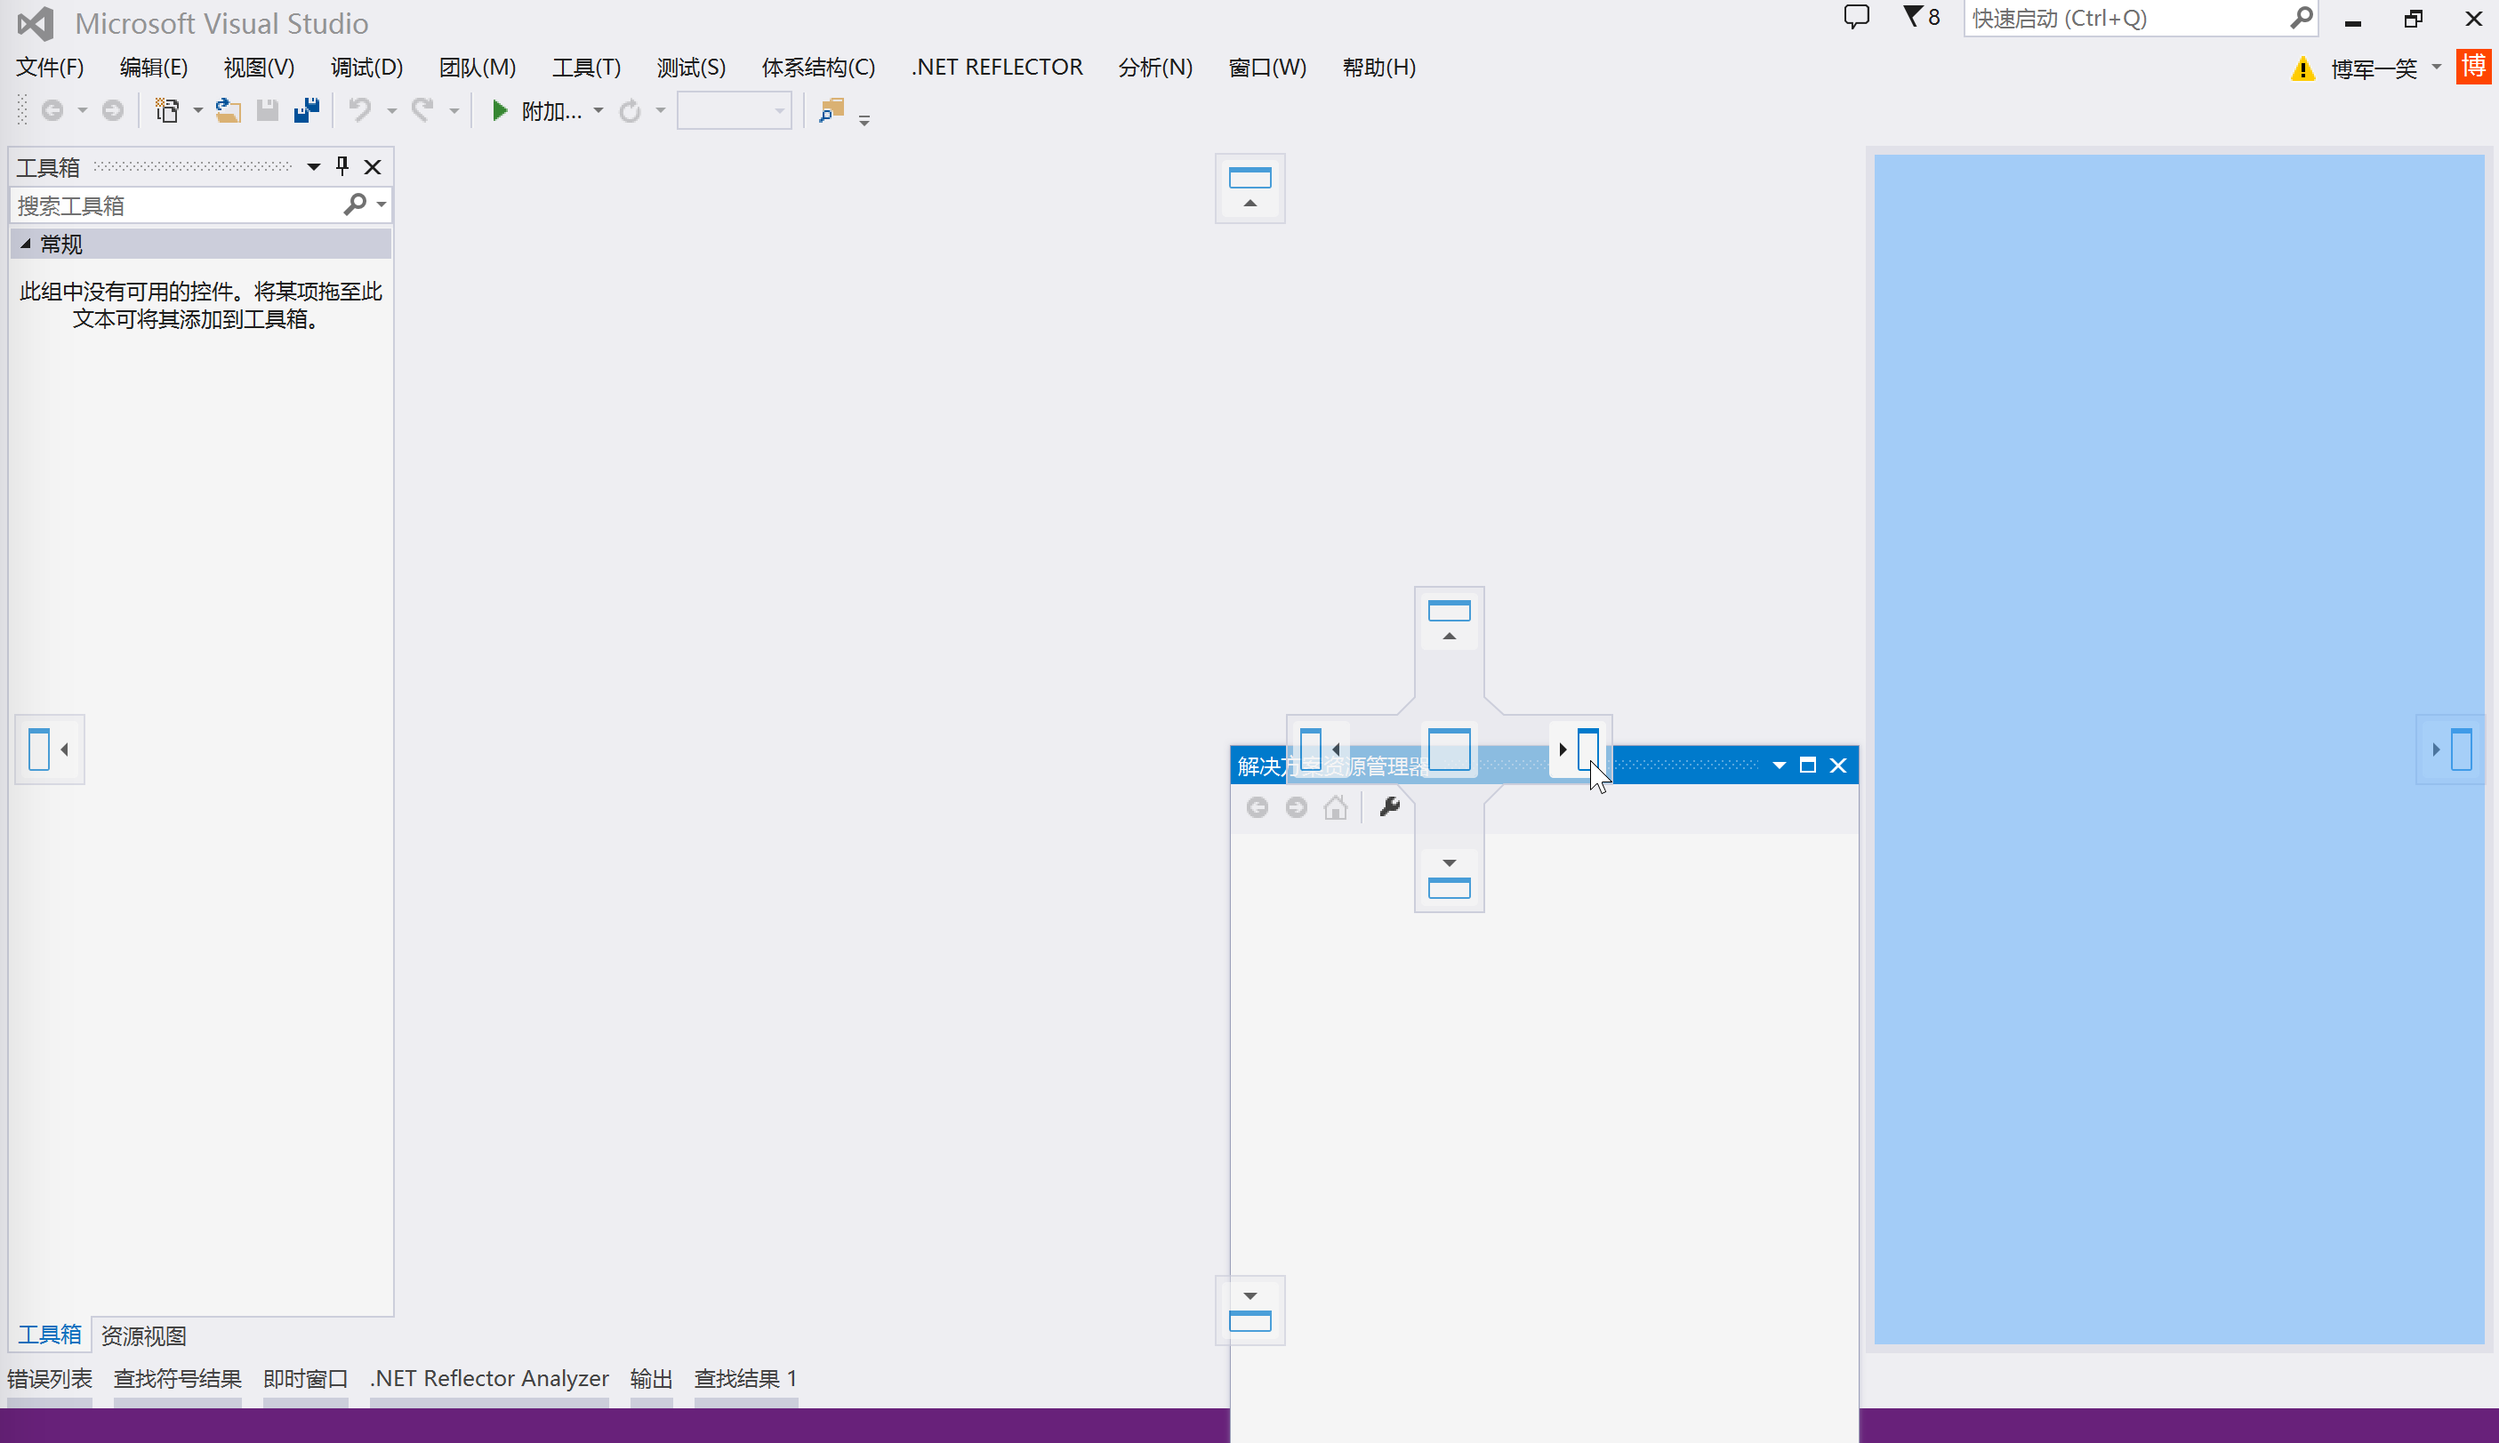
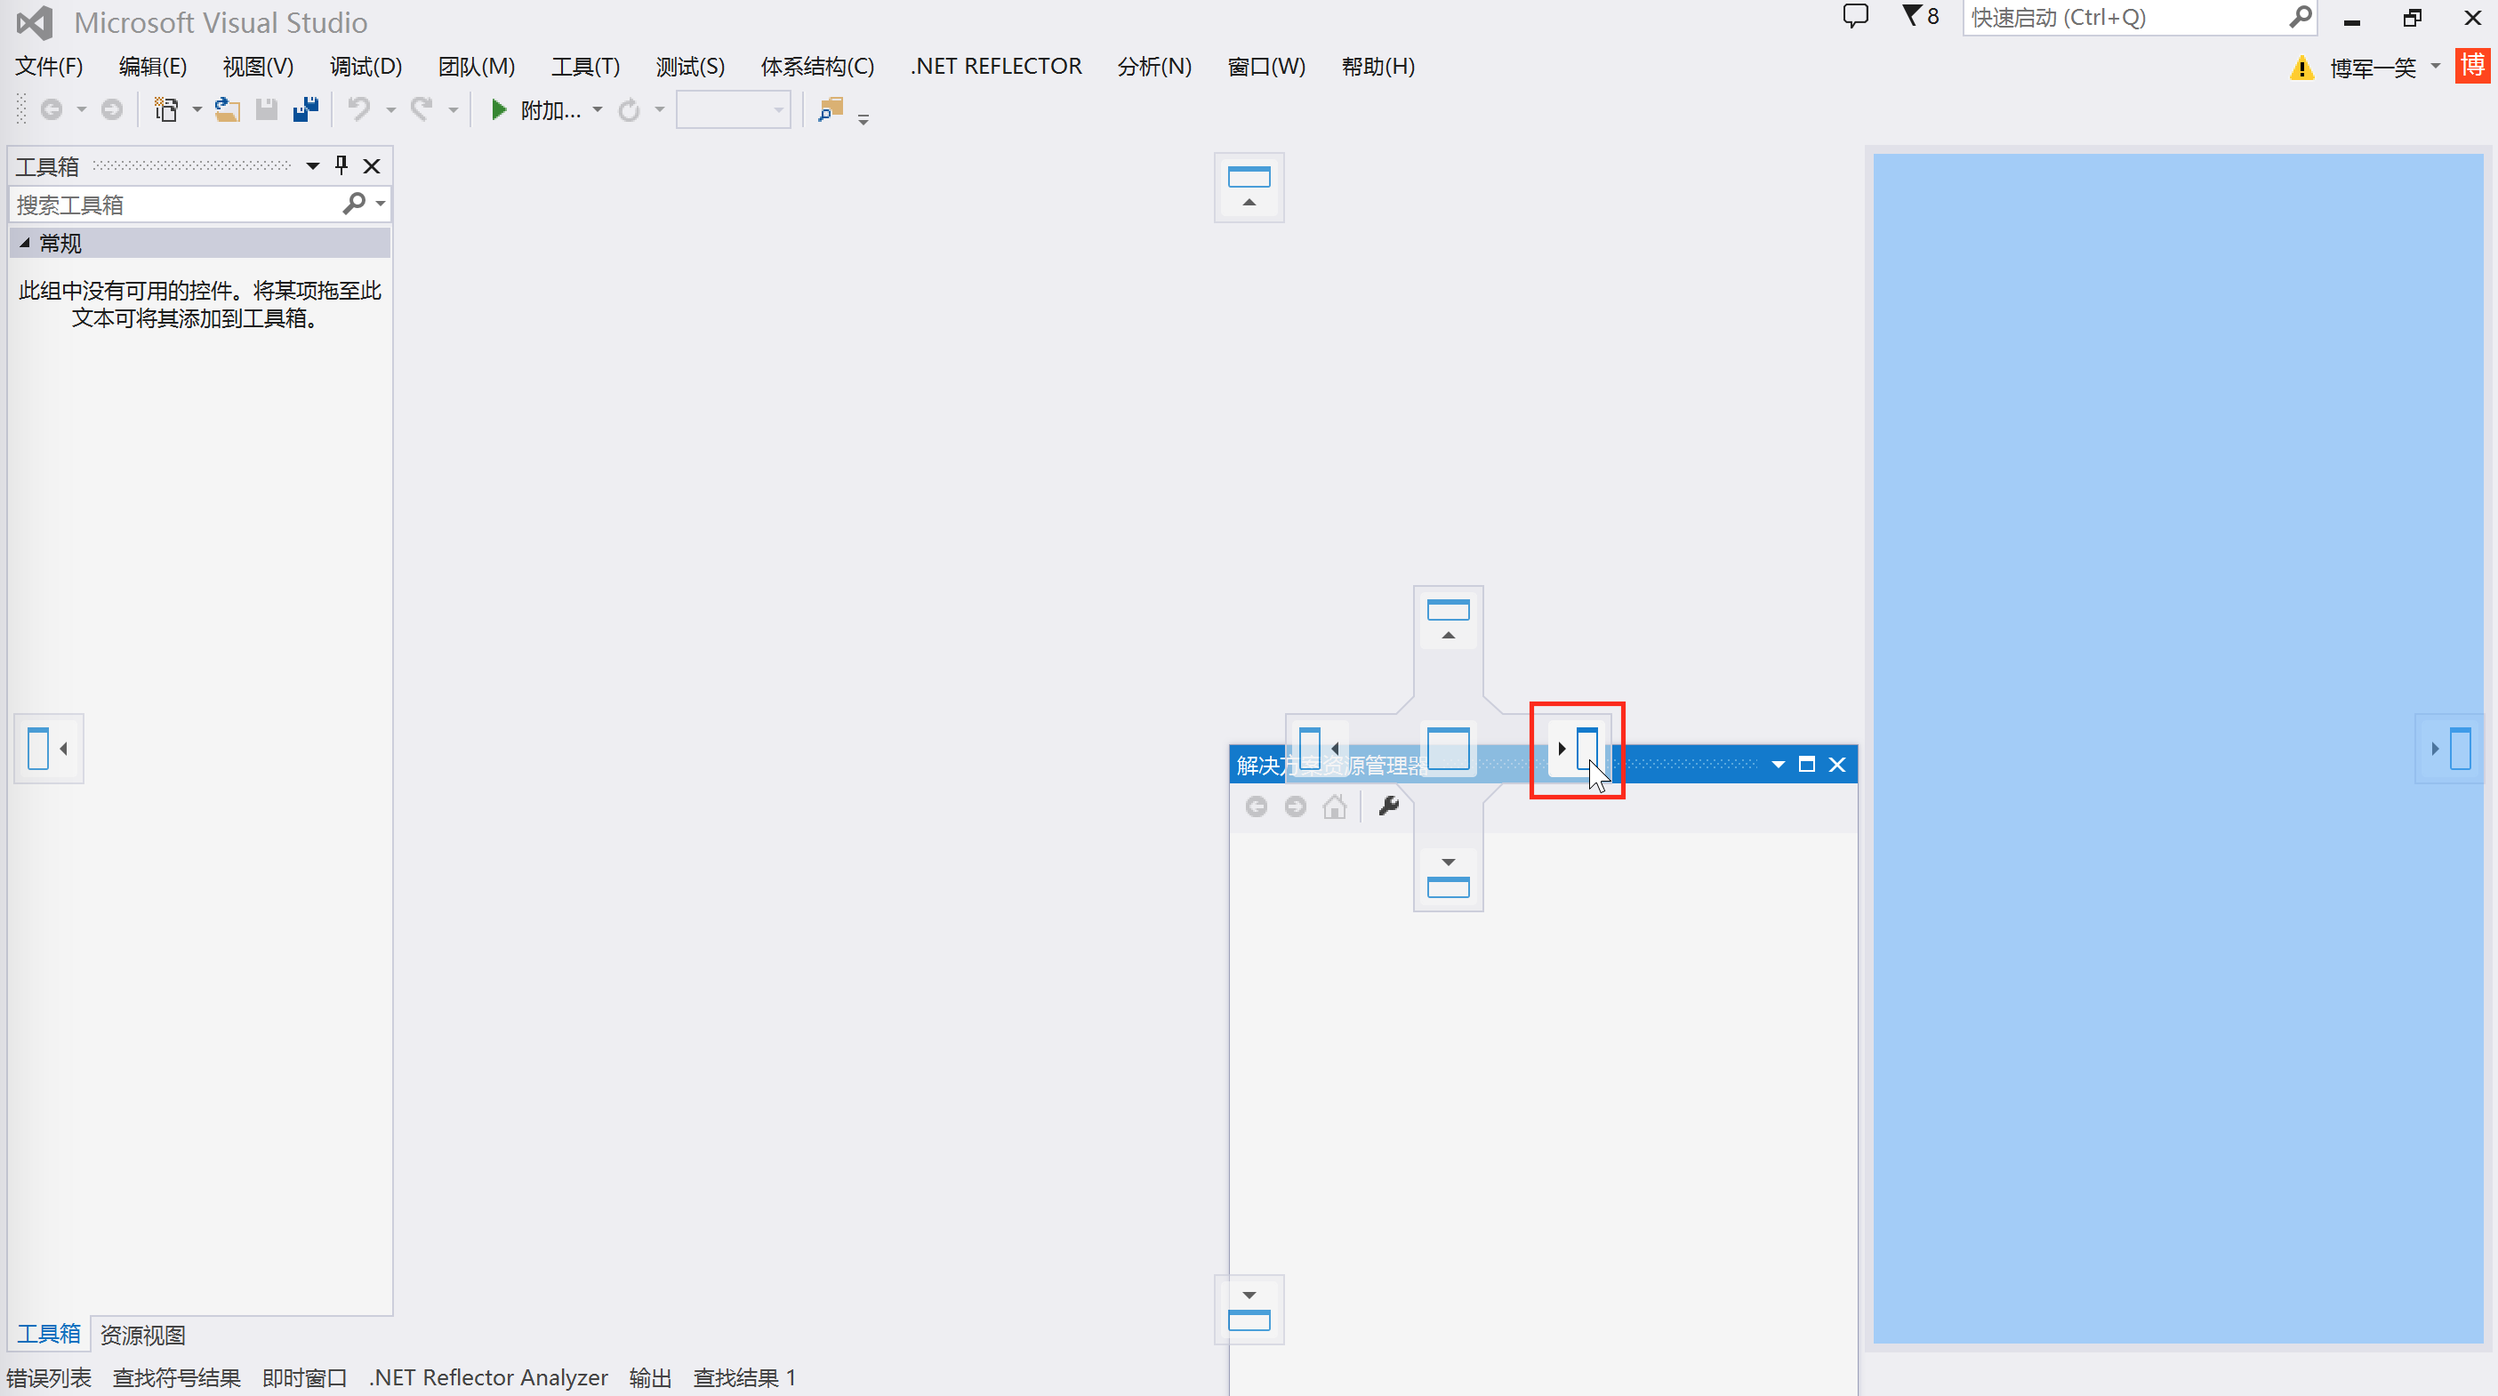
Updates 第2章 编写C＃程序/21-visual-studio-2015-开发环境.md
Auto commit by GitBook Editor

diff --git a/第2章 编写C＃程序/21-visual-studio-2015-开发环境.md b/第2章 编写C＃程序/21-visual-studio-2015-开发环境.md
@@ -34,7 +34,7 @@
 
 VS环境布局完全可定制的，但默认设置很适合我们。拖动窗口到相应布局框``如图2-3所示``。
 
-
+![图2-3](/assets/2-3.png)
 
 > 所有的代码都显示在主窗口中。在VS启动时，主窗口会默认显示一个提供帮助信息的Start Page。主窗口可以包含许多文档，每个文档都有一个选项卡，单击文件名，就可以在文件之间切换。这个窗口也具有其他功能：它可以显示为项目设计的GUI、纯文本文件HTML以及各种内置于VS的工具。本书将陆续介绍它们。
 
